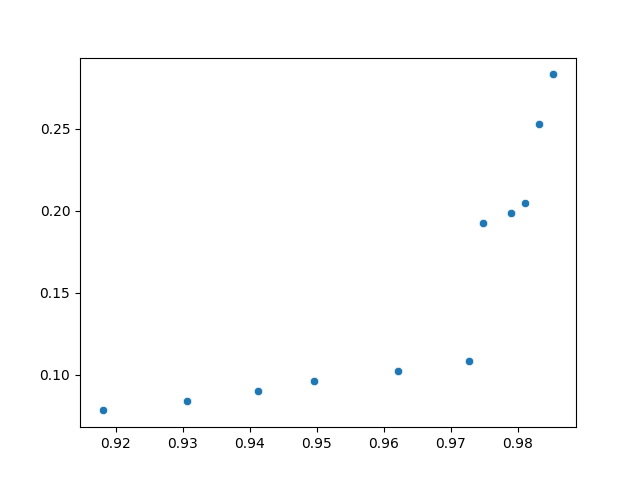
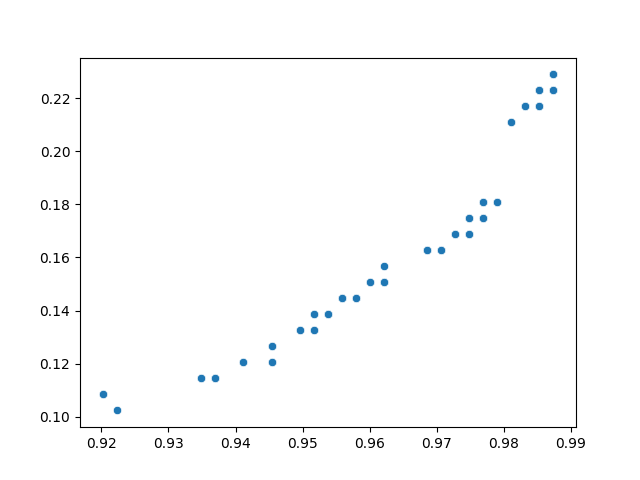
Finished Part 3 report

diff --git a/report/report.tex b/report/report.tex
@@ -2,6 +2,7 @@
 
 \usepackage{graphicx}
 \usepackage{subcaption}
+\usepackage{amsmath}
 
 \title{AIML426 Project 1 Report}
 \date{}
@@ -201,9 +202,14 @@ For the datasets used, the wrapperGA is the better option due to the use of cont
 \noindent Comparing the filterGA and the wrapperGA on discrete datasets could lead to different results where the filterGA excels due to it being designed for discrete features. \par
 \section*{Part 3}
 \subsection*{Individual Representation}
+Each individual needs to keep track of classification performance and ratio of selected features. The bit vector is used again for this problem where the classification performance is determined by using a wrapper classifier on the features subset and the ratio of selected features is determined by $\frac{\text{Number of 1s in bit vector}}{\text{Total length of bit vector}}$.
 \subsubsection*{Individual Generation}
+For individual generation, since there are no constraints it uses the same generation as used in Part 2 of generating a random bit value for each element in the vector. 
 \subsection*{Fitness Function}
+The fitness function is defined by two objectives: classification performance and the feature ratio. The problem’s focus is to maximize the classification performance, which is the same as minimizing the error rate, and minimize the selected feature ratio. Thus, the fitness function is defined as a tuple of (classification, -ratio). 
 \subsection*{Genetic Operators}
+The same single point split crossover operator that is used in the previous two problems is used for this problem. The mutation operator used here is flip bit mutation but since this problem uses the mutFlipBit operator from the Python library DEAP, the local search feature implemented in the previous two problems is not used here.  \par
+\noindent The datasets in the problem use these parameters for the GA: 
 \begin{center}
 \begin{tabular}{|c|c|c|}
 \hline
@@ -219,18 +225,84 @@ Mutation Rate & 0.3 & 0.3 \\
 \hline
 \end{tabular}
 \end{center}
+A higher population and generation number has been set for the clean1 dataset due to it having a greater number of features compared to the vehicle dataset. The same crossover and mutation rate is defined for both datasets to allow for a balance of exploration in the solution space and evolving towards the optimal solution. Tournament selection was used for the selection scheme for selecting parents to allow the GA to focus on optimizing the population. 
 \subsection*{Discussion}
 \subsubsection*{Hyper-Volume}
+For the hypervolume since the classification performance is maximized but the ratio is minimized, the reference point is defined to be at (0,1) since this is the point which all solutions in the Pareto front dominate since it represents the worst values the objectives can be. For the classifier accuracy 0 represents no instances that were correctly identified and for the feature ratio 1 represents maximum value of feature ratio. 
+\begin{center}
+\begin{tabular}{|c|c|c|c|}
+\hline
+Seed & 94 & 102 & 151 \\
+\hline
+vehicle & 0.745 & 0.746 & 0.753 \\
+\hline
+clean1 & 0.903 & 0.882 & 0.890 \\
+\hline
+\end{tabular}
+\end{center}
+\subsubsection*{Error Rate}
+The error rate is calculated as $1.0 - \text{accuracy of classifier}$. This was calculated for each dataset and seed and are recorded in the table below: 
 \begin{center}
 \begin{tabular}{|c|c|c|c|c|}
 \hline
 Seed & 94 & 102 & 151 & All features selected\\
 \hline
-vehicle & & & & \\
+vehicle & 16.430\% & 16.548\% & 15.603\% & 21.158\%\\
 \hline
-clean1 & & & & \\
+clean1 & 0.840\% & 1.261\% & 1.05\% & 6.303\% \\
 \hline
 \end{tabular}
 \end{center}
+The hyper-volume values for clean1 are greater compared to vehicle and the error rates for clean1 are lower compared to vehicle. Indicating an inverse relation between hyper-volume and error rates, which is explained by a greater hyper-volume indicating that the Pareto front of solutions are further away from the reference point (0,1) and thus have better objective values.  
+\subsubsection*{Number of features selected}
+\begin{center}
+\begin{tabular}{|c|c|c|c|}
+\hline
+Seed & 94 & 102 & 151 \\
+\hline
+vehicle & 9 & 7 & 8 \\
+\hline
+clean1 & 42 & 37 & 36 \\
+\hline
+\end{tabular}
+\end{center}
+For the number of features selected, for the vehicle dataset roughly half of the features were selected in the best solution. For the clean1 dataset, despite a greater number of features being selected compared to the vehicle dataset, roughly a quarter of the features present in the dataset were selected. This indicates that in the clean1 dataset there were a larger number of redundant features compared to the vehicle dataset. 
+\subsubsection*{Pareto Front Charts}
+\begin{figure}[h!]
+	\centering
+	\begin{subfigure}[b]{0.3\linewidth}
+		\includegraphics[width=\linewidth]{vehicle_94.png}
+		\caption{Seed 94}
+	\end{subfigure}
+	\begin{subfigure}[b]{0.3\linewidth}
+		\includegraphics[width=\linewidth]{vehicle_102.png}
+		\caption{Seed 102}
+	\end{subfigure}
+	\begin{subfigure}[b]{0.3\linewidth}
+		\includegraphics[width=\linewidth]{vehicle_151.png}
+		\caption{Seed 151}
+	\end{subfigure}
+	\caption{Pareto front chart of vehicle dataset}
+\end{figure}
+
+\begin{figure}[h!]
+	\centering
+	\begin{subfigure}[b]{0.3\linewidth}
+		\includegraphics[width=\linewidth]{clean1_94.png}
+		\caption{Seed 94}
+	\end{subfigure}
+	\begin{subfigure}[b]{0.3\linewidth}
+		\includegraphics[width=\linewidth]{clean1_102.png}
+		\caption{Seed 102}
+	\end{subfigure}
+	\begin{subfigure}[b]{0.3\linewidth}
+		\includegraphics[width=\linewidth]{clean1_151.png}
+		\caption{Seed 151}
+	\end{subfigure}
+	\caption{Pareto front chart of clean1 dataset}
+\end{figure}
+The vehicle dataset generated smooth Pareto fronts, indicating that it has converged for all seeds. This is expected because of the small number of features to select from. The clean1 dataset generated not as smooth fronts, indicating that because of the large number of features to select from, it still requires more generations to reach convergence. Even without achieving convergence the true Pareto front can be visually estimated from the generated points indicating that clean1 would achieve convergence with enough generations.
 \subsection*{Conclusion}
+NSGA2 can be used to determine a selection of features that has lower error rates compared to using all features, with NSGA2 achieving good results even before convergence. NSGA2 can still use the same genetic operators that GA uses with the difference being determining the elitism selection as NSGA2 and utilizing the domination relation and crowding distance in the fitness calculation. While NSGA2 works for 2 objectives, using more than 2 is not possible for this algorithm which limits the possible problems NSGA2 can be used for. 
+\section*{Part 4}
 \end{document}

diff --git a/nsga_ga.py b/nsga_ga.py
@@ -125,9 +125,9 @@ def draw_chart(final_set, data, labels):
     sns.scatterplot(x=x_values,y=y_values)
     plt.show()
 
-def get_best_accuracy(solution_set, data, labels):
+def get_best_accuracy_solution(solution_set, data, labels):
     accuracies = [evaluate_accuracy(solution, KNeighborsClassifier(n_neighbors=5), data, labels) for solution in solution_set]
-    return max(accuracies)
+    return max(accuracies), solution_set[accuracies.index(max(accuracies))]
 
 
 if __name__=="__main__":
@@ -172,8 +172,9 @@ if __name__=="__main__":
             )
             
             #calc feature accuracy of best solution
-            best_accuracy = get_best_accuracy(final_set, data, labels)
+            best_accuracy, best_solution = get_best_accuracy_solution(final_set, data, labels)
             print('best solution error rate = ',(1.0-best_accuracy))
+            print('best solution = ',best_solution,'\n feature count = ',np.count_nonzero(np.array(best_solution)))
 
             print('hypervolume of solution = ',hv)
             draw_chart(
